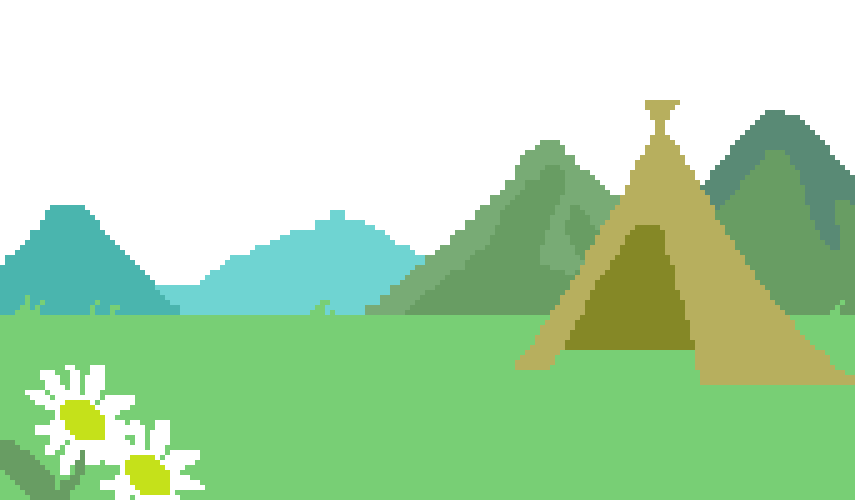
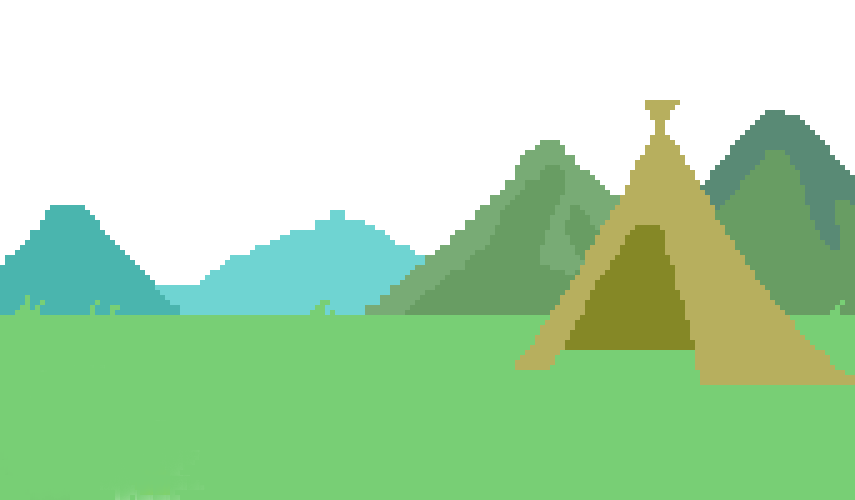
アニメーションの追加&レスポンシブ化

Changed region(s): [[0.0, 0.72, 0.2433, 1.0]]

diff --git a/src/App.vue b/src/App.vue
@@ -10,6 +10,8 @@ import Cloud1Gd2 from './assets/image/use_battery_cloud_01_gd_02.png'
 import Cloud2Base from './assets/image/use_battery_cloud_02_base.png'
 import Cloud2Gd1 from './assets/image/use_battery_cloud_02_gd_01.png'
 import Cloud2Gd2 from './assets/image/use_battery_cloud_02_gd_02.png'
+import Kuki from './assets/image/use_battery_kuki.png'
+import Flower from './assets/image/use_battery_flower.png'
 
 const battery = reactive(useBattery())
 
@@ -92,18 +94,21 @@ const gdBottomColor = computed(() => getGdBottomColor(battery.level * 100))
       <div class="gd-bottom3" :style="{ backgroundColor: gdBottomColor, opacity: 0.2 }"></div>
       <div class="gd-bottom4" :style="{ backgroundColor: gdBottomColor, opacity: 0.2 }"></div>
       <img class="image__base" :src="ImageBase" alt="">
-      <img :src="Sun" alt="" :style="{ position: 'absolute', top: `calc(4% + ${100 - battery.level * 100} * 3px)`, right: '10%' }">
-      <img :src="Moon" alt="" :style="{ position: 'absolute', top: `calc(58% - ${100 - battery.level * 100} * 2.6px)`, right: '10%', }">
-      <div class="cloud" :style="{ position: 'absolute', top: '5%', left: '7%', }">
+      <img class="sun" :src="Sun" alt="" :style="{ position: 'absolute', top: `calc(4% + ${100 - battery.level * 100} * 3px)`, right: '10%' }">
+      <img class="moon" :src="Moon" alt="" :style="{ position: 'absolute', top: `calc(58% - ${100 - battery.level * 100} * 2.6px)`, right: '10%', }">
+      <div class="cloud cloud--1" :style="{ position: 'absolute', top: '5%', left: '6%', }">
         <img class="cloud__base" :src="Cloud1Base" alt="">
         <img class="cloud__gd1" :src="Cloud1Gd1" alt="">
         <img class="cloud__gd2" :src="Cloud1Gd2" alt="">
       </div>
-      <div class="cloud" :style="{ position: 'absolute', top: '24%', left: '25%', }">
+      <div class="cloud cloud--2" :style="{ position: 'absolute', top: '24%', left: '25%', }">
         <img class="cloud__base" :src="Cloud2Base" alt="">
         <img class="cloud__gd1" :src="Cloud2Gd1" alt="">
         <img class="cloud__gd2" :src="Cloud2Gd2" alt="">
       </div>
+      <img class="flower flower--1" :src="Flower" alt="">
+      <img class="flower flower--2" :src="Flower" alt="">
+      <img class="kuki" :src="Kuki" alt="">
     </div>
   </div>
   <div class="info">
@@ -115,30 +120,97 @@ const gdBottomColor = computed(() => getGdBottomColor(battery.level * 100))
 </template>
 
 <style scoped>
+@keyframes cloudAnime1 {
+  0% {
+    transform: translateX(0) translateY(0);
+  }
+  30% {
+    transform: translateX(-7px) translateY(-5px);
+  }
+  60% {
+    transform: translateX(5px) translateY(-7px);
+  }
+  100% {
+    transform: translateX(0) translateY(0);
+  }
+}
+
+@keyframes cloudAnime2 {
+  0% {
+    transform: translateX(0) translateY(0);
+  }
+  30% {
+    transform: translateX(-12px) translateY(-7px);
+  }
+  60% {
+    transform: translateX(3px) translateY(-5px);
+  }
+  100% {
+    transform: translateX(0) translateY(0);
+  }
+}
+
+@keyframes flower1 {
+  0% {
+    transform: translateX(0) translateY(0);
+  }
+  30% {
+    transform: translateX(-3px) translateY(-2px) rotate(-4deg);
+  }
+  100% {
+    transform: translateX(0) translateY(0);
+  }
+}
+
+@keyframes flower2 {
+  0% {
+    transform: translateX(0) translateY(0);
+  }
+  30% {
+    transform: translateX(-3px) translateY(-2px) rotate(-8deg);
+  }
+  100% {
+    transform: translateX(0) translateY(0);
+  }
+}
 .wrapper {
   text-align: center;
-  padding-top: 20px;
+  padding-top: 0;
 }
 .image {
-  display: inline-block;
+  margin-inline: auto;
   position: relative;
-  height: 500px;
   overflow: hidden;
+  width: 100%;
 }
 
 .image__base {
   position: relative;
   z-index: 10;
+  width: 100%;
+  vertical-align: top;
 }
 
 .cloud {
   position: relative;
 }
 
+.cloud--1 {
+  width: 21vw;
+  animation: cloudAnime1 11s infinite;
+}
+
+.cloud--2 {
+  width: 10vw;
+  animation: cloudAnime2 11s infinite;
+}
+
 .cloud__base, .cloud__gd1, .cloud__gd2 {
   position: absolute;
   top: 0;
   left: 0;
+  width: 100%;
+  height: auto;
 }
 
 .gd-bottom1 {
@@ -200,6 +272,44 @@ const gdBottomColor = computed(() => getGdBottomColor(battery.level * 100))
 .info {
   text-align: center;
   font-family: 'DotGothic16', sans-serif;
+}
+
+.sun {
+  width: 10vw;
+  height: auto;
+}
+
+.moon {
+  width: 6.7vw;
+  height: auto;
+}
+
+.flower {
+  position: absolute;
+  width: 12vw;
+  height: auto;
+  z-index: 20;
+}
+
+.flower--1 {
+  left: 3%;
+  bottom: 5%;
+  animation: flower1 infinite 4s;
+}
+
+.flower--2 {
+  left: 7%;
+  bottom: -5%;
+  animation: flower2 infinite 4s;
+}
+
+.kuki {
+  position: absolute;
+  width: 10vw;
+  bottom: 0;
+  left: 0;
+  height: auto;
+  z-index: 15;
 }
 
 </style>
